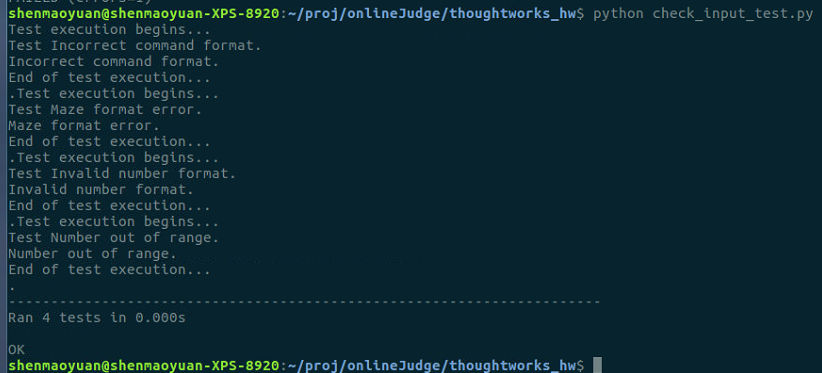
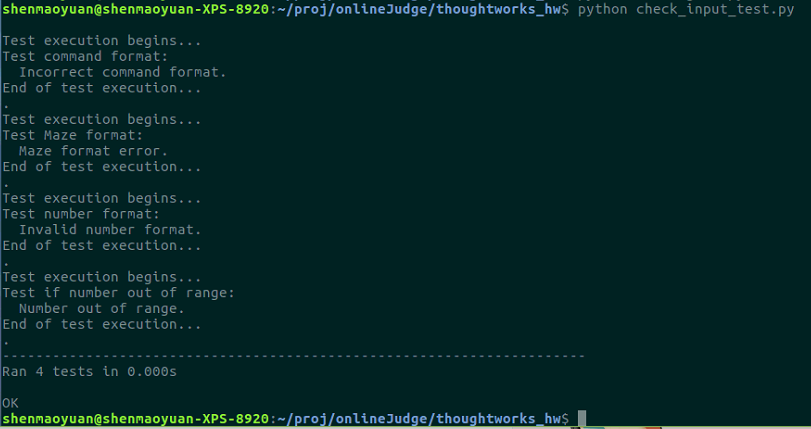
update

Changed region(s): [[0.0, 0.0, 1.0, 1.0]]

diff --git a/check_input_test.py b/check_input_test.py
@@ -2,7 +2,7 @@
 # @Date:   2018-07-30T13:11:33+09:00
 # @Email:  disovery.yuan@gmail.com
 # @Last modified by:   shenmaoyuan
-# @Last modified time: 2018-07-30T14:56:43+09:00
+# @Last modified time: 2018-08-01T04:34:51+09:00
 # @License: Licensed under the Apache License, Version 2.0 (the "License")
 # @Copyright: Copyright (c) 2017 XXXXXX, Inc.
 
@@ -12,28 +12,28 @@ import rendergrid as rg
 class TestInputCheck(unittest.TestCase):
 
     def setUp(self):
-        print('Test execution begins...')
+        print('\nTest execution begins...')
 
     def test_number_format(self):
-        print('Test Invalid number format.')
+        print('Test number format:')
         command = ['3 3','0,s 0,2;0,0 1,0;0,1 1,1;0,y 1,2;1,0 1,1;1,1 1,2;1,1 2,1;1,2 2,2;2,0 2,1']
         # command = ['3 3','0,1 0,2;0,0 1,0;0,1 1,1;0,2 1,2;1,0 1,1;1,1 1,2;1,1 2,1;1,2 2,2;2,0 2,1']
         self.assertEqual('Invalid number format.',rg.create_maze(command))
 
     def test_out_range(self):
-        print('Test Number out of range.')
+        print('Test if number out of range:')
         command = ['3 3','0,-1 0,2;0,0 1,0;0,1 1,1;0,4 1,2;1,0 1,1;1,1 1,2;1,1 2,1;1,2 2,2;2,0 2,1']
         # command = ['3 3','0,1 0,2;0,0 1,0;0,1 1,1;0,2 1,2;1,0 1,1;1,1 1,2;1,1 2,1;1,2 2,2;2,0 2,1']
         self.assertEqual('Number out of range.',rg.create_maze(command))
 
     def test_command_format(self):
-        print('Test Incorrect command format.')
+        print('Test command format:')
         command = ['3 3','0,,,,1 0,2;0,0 1,0;0,1 1,1;0,2 1,2;1,0 1,1;1,1 1,2;1,1 2,1;1,2 2,2;2,0 2,1']
         # command = ['3 3','0,1 0,2;0,0 1,0;0,1 1,1;0,2 1,2;1,0 1,1;1,1 1,2;1,1 2,1;1,2 2,2;2,0 2,1']
         self.assertEqual('Incorrect command format.',rg.create_maze(command))
 
     def test_maze_format(self):
-        print('Test Maze format error.')
+        print('Test Maze format:')
         command = ['3 3','0,1 1,0;0,0 1,0;0,1 1,1;0,2 1,2;1,0 1,1;1,1 1,2;1,1 2,1;1,2 2,2;2,0 2,1']
         # command = ['3 3','0,1 0,2;0,0 1,0;0,1 1,1;0,2 1,2;1,0 1,1;1,1 1,2;1,1 2,1;1,2 2,2;2,0 2,1']
         self.assertEqual('Maze format error.',rg.create_maze(command))

diff --git a/rendergrid.py b/rendergrid.py
@@ -2,7 +2,7 @@
 # @Date:   2018-07-30T05:33:33+09:00
 # @Email:  disovery.yuan@gmail.com
 # @Last modified by:   shenmaoyuan
-# @Last modified time: 2018-07-30T15:02:08+09:00
+# @Last modified time: 2018-08-01T04:23:49+09:00
 # @License: Licensed under the Apache License, Version 2.0 (the "License")
 # @Copyright: Copyright (c) 2017 XXXXXX, Inc.
 
@@ -27,6 +27,8 @@ def check_command_format(command):
     if len(command[0].split(' ')) != 2:
         return True
     for twocell in command[1].split(';'):
+        if len(twocell.split(' ')) != 2:
+            return True
         for cell in twocell.split(' '):
             if len(cell.split(',')) != 2:
                 return True
@@ -36,17 +38,17 @@ def create_maze(command):
     """Create the maze from two-line commands
     """
     if check_command_format(command):
-        print('Incorrect command format.')
+        print('  Incorrect command format.')
         return 'Incorrect command format.'
     try:
         size = [int(num) for num in command[0].split(' ')]
         conn = [[(int(cell.split(',')[0]), int(cell.split(',')[1])) for cell in twocell.split(' ')] for twocell in command[1].split(';')]
     except Exception as e:
         # print('ValueError:',str(e))
-        print('Invalid number format.')
+        print('  Invalid number format.')
         return 'Invalid number format.'
     if check_num_range(size, conn):
-        print('Number out of range.')
+        print('  Number out of range.')
         return 'Number out of range.'
     mz = maze.Maze(size, conn)
     if mz.matrix == 'Maze format error.':

diff --git a/maze.py b/maze.py
@@ -2,7 +2,7 @@
 # @Date:   2018-07-30T04:37:01+09:00
 # @Email:  disovery.yuan@gmail.com
 # @Last modified by:   shenmaoyuan
-# @Last modified time: 2018-07-30T15:00:59+09:00
+# @Last modified time: 2018-08-01T04:23:59+09:00
 # @License: Licensed under the Apache License, Version 2.0 (the "License")
 # @Copyright: Copyright (c) 2017 XXXXXX, Inc.
 
@@ -31,7 +31,7 @@ class Maze(object):
         for con in self.conn:
             vec = (con[1][0]-con[0][0], con[1][1]-con[0][1])
             if abs(vec[0]) + abs(vec[1]) != 1:
-                print('Maze format error.')
+                print('  Maze format error.')
                 return 'Maze format error.'
             """Check if the connection of maze is correct.
             """
